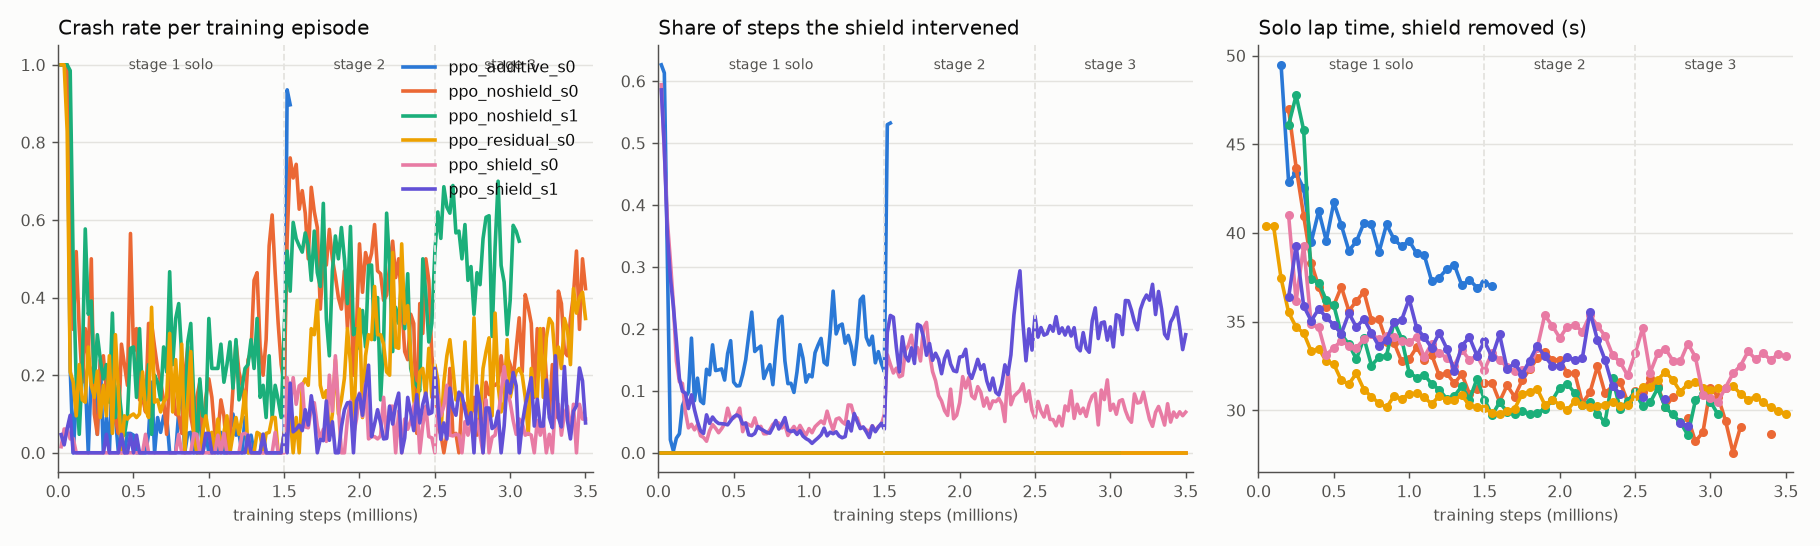
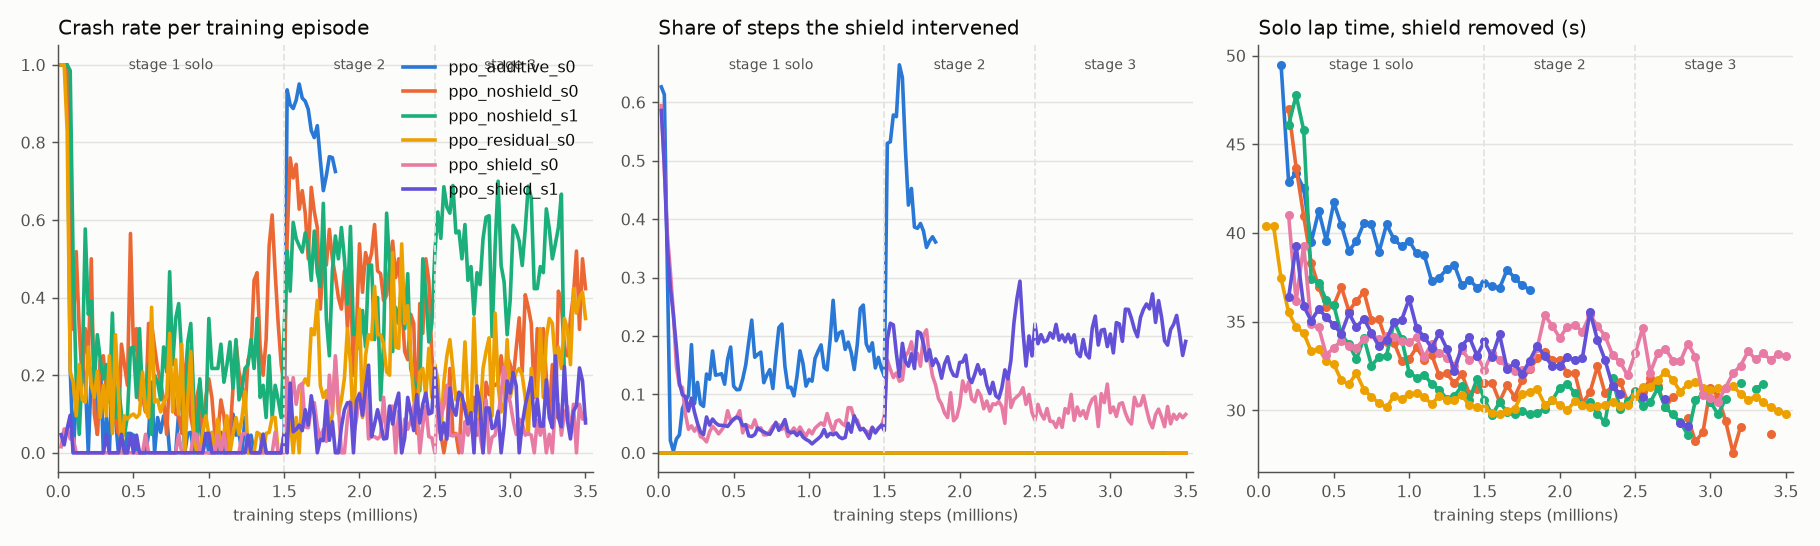
Queue: improved shield (escape, saturated_v2) trained first in lane C; lane D merged into C (+2 more)
Squashed on 2026-11-09 from 3 commits (originals listed in docs/presquash_history_2026-11-09.md):
- 16:25 Queue: improved shield (escape, saturated_v2) trained first in lane C; lane D merged into C
- 16:25 Eval daemon: new runs
- 16:26 Auto-sync training progress (16:26)

diff --git a/racing/train.py b/racing/train.py
@@ -34,6 +34,7 @@ SHIELDS = {
     "additive": dict(mode="additive", reach="fixed"),  # proposal Eq. 2/3
     "cond_fb_grip": dict(mode="conditioned_fallback", reach="grip"),
     "cond_fb_fixed": dict(mode="conditioned_fallback", reach="fixed"),
+    "cond_fb_grip_esc": dict(mode="conditioned_fallback", reach="grip", escape=True),  # + deadlock escape
 }
 
 STAGES = {
@@ -213,7 +214,7 @@ if __name__ == "__main__":
     ap.add_argument("--gamma", type=float, default=0.99)
     ap.add_argument("--ent", type=float, default=0.0)
     ap.add_argument("--eval_every", type=int, default=50_000)
-    ap.add_argument("--tire", default="saturated")
+    ap.add_argument("--tire", default="saturated", choices=["saturated", "saturated_v2", "linear"])
     ap.add_argument("--no_randomize", action="store_true")
     ap.add_argument("--curvature_preview", action="store_true")
     ap.add_argument("--residual", action="store_true")

diff --git a/scripts/update_registry.py b/scripts/update_registry.py
@@ -20,6 +20,7 @@ PURPOSE = {
     "ppo_shield_linear_s0": "Ours on stock linear tyres: does PPO exploit unlimited grip (slip > 15 deg, > 100% mu g)?",
     "ppo_shield_w3low_s0": "Timidity test: ours with intervention penalty w3 = 0.02 (default 0.1)",
     "ppo_shield_preview_s0": "Timidity test: ours with 10 centerline curvatures (1-20 m ahead) in the observation",
+    "ppo_shield_v2esc_s0": "Ours, improved: shield with deadlock escape, trained on the post-spin-fixed simulator",
     "ppo_additive_s0": "Proposal's original shield: PPO + additive Eq. 2/3 APF (fixed reach)",
 }
 RESULTS = {

diff --git a/RUNS.md b/RUNS.md
@@ -1,14 +1,14 @@
 # Run registry
 
-Auto-generated by `python -m scripts.update_registry` (2026-11-04 16:18). Each run directory `runs/<run>/` holds `args.json`, `run_info.json` (git commit, command, status), `train_log.csv` (every ~20k steps), `eval_log.csv` (solo laps with/without shield every 50k steps), `model_stage*.zip` + `vecnorm_stage*.pkl` (checkpoint after each curriculum stage). TensorBoard logs (`runs/*/tb`) stay local.
+Auto-generated by `python -m scripts.update_registry` (2026-11-04 16:26). Each run directory `runs/<run>/` holds `args.json`, `run_info.json` (git commit, command, status), `train_log.csv` (every ~20k steps), `eval_log.csv` (solo laps with/without shield every 50k steps), `model_stage*.zip` + `vecnorm_stage*.pkl` (checkpoint after each curriculum stage). TensorBoard logs (`runs/*/tb`) stay local.
 
 ## Training runs
 
 | run | purpose | config | commit | status | steps | train crash rate (stage 1/2/3) | first clean lap, shield removed | best / last solo lap, shield removed (s) | shield active (last 100k) | checkpoints |
 |---|---|---|---|---|---|---|---|---|---|---|
-| `ppo_additive_s0` | Proposal's original shield: PPO + additive Eq. 2/3 APF (fixed reach) | shield=additive seed=0 tyre=saturated | `a2a2a8e` | running | 1.54M | 9% / 63% / - | 150k | 36.92 / 37.00 | 30% | stage1 |
+| `ppo_additive_s0` | Proposal's original shield: PPO + additive Eq. 2/3 APF (fixed reach) | shield=additive seed=0 tyre=saturated | `a2a2a8e` | running | 1.84M | 9% / 79% / - | 150k | 36.80 / 36.80 | 36% | stage1 |
 | `ppo_noshield_s0` | Ablation: PPO, shield off in every stage | shield=off seed=0 tyre=saturated | `afc94c8 +dirty` | finished | 3.50M | 25% / 46% / 21% | 200k | 27.60 / 28.64 | 0% | stage1, stage2, stage3 |
-| `ppo_noshield_s1` | Ablation (no shield), seed 1 | shield=off seed=1 tyre=saturated | `b3af79a` | running | 3.06M | 26% / 41% / 53% | 200k | 28.60 / 29.76 | 0% | stage1, stage2 |
+| `ppo_noshield_s1` | Ablation (no shield), seed 1 | shield=off seed=1 tyre=saturated | `b3af79a` | running | 3.36M | 26% / 41% / 53% | 200k | 28.60 / 31.48 | 0% | stage1, stage2 |
 | `ppo_residual_s0` | ResRace/RaceMOP-style: PPO residual on top of PID+APF (APF shapes every command) | shield=off residual seed=0 tyre=saturated | `5549760` | finished | 3.50M | 14% / 22% / 22% | 50k | 29.80 / 29.80 | 0% | stage1, stage2, stage3 |
 | `ppo_shield_s0` | Ours: PPO + action-conditioned APF shield with fallback (grip reach), all stages | shield=cond_fb_grip seed=0 tyre=saturated | `afc94c8 +dirty` | finished | 3.50M | 1% / 9% / 7% | 200k | 30.48 / 33.04 | 6% | stage1, stage2, stage3 |
 | `ppo_shield_s1` | Ours, seed 1 | shield=cond_fb_grip seed=1 tyre=saturated | `0152028` | finished | 3.50M | 1% / 9% / 11% | 200k | 29.12 / 29.12 | 20% | stage1, stage2, stage3 |

diff --git a/results/training_efficiency.md b/results/training_efficiency.md
@@ -4,8 +4,9 @@ Solo laps every 50k steps, standing start. 'fast' = under 34 s (best classical s
 
 | run | config | steps trained | first clean lap | first fast lap | crashes before first clean lap | crashes during training (episodes) | best lap |
 |---|---|---|---|---|---|---|---|
+| `ppo_additive_s0` | additive | 1840k | 150k | - | 783 | 1665 (3201) | 36.80 |
 | `ppo_noshield_s0` | off | 3500k | 200k | 850k | 995 | 2318 (5249) | 27.60 |
-| `ppo_noshield_s1` | off | 580k | 200k | - | 1080 | 1178 (1620) | 34.28 |
+| `ppo_noshield_s1` | off | 3360k | 200k | 600k | 1080 | 2680 (5325) | 28.60 |
 | `ppo_residual_s0` | off residual | 3500k | 50k | 350k | 259 | 995 (4141) | 29.80 |
 | `ppo_shield_s0` | cond_fb_grip | 3500k | 200k | 450k | 8 | 234 (4158) | 30.48 |
-| `ppo_shield_s1` | cond_fb_grip | 2660k | 200k | 800k | 9 | 177 (3361) | 30.72 |
+| `ppo_shield_s1` | cond_fb_grip | 3500k | 200k | 800k | 9 | 313 (4572) | 29.12 |
